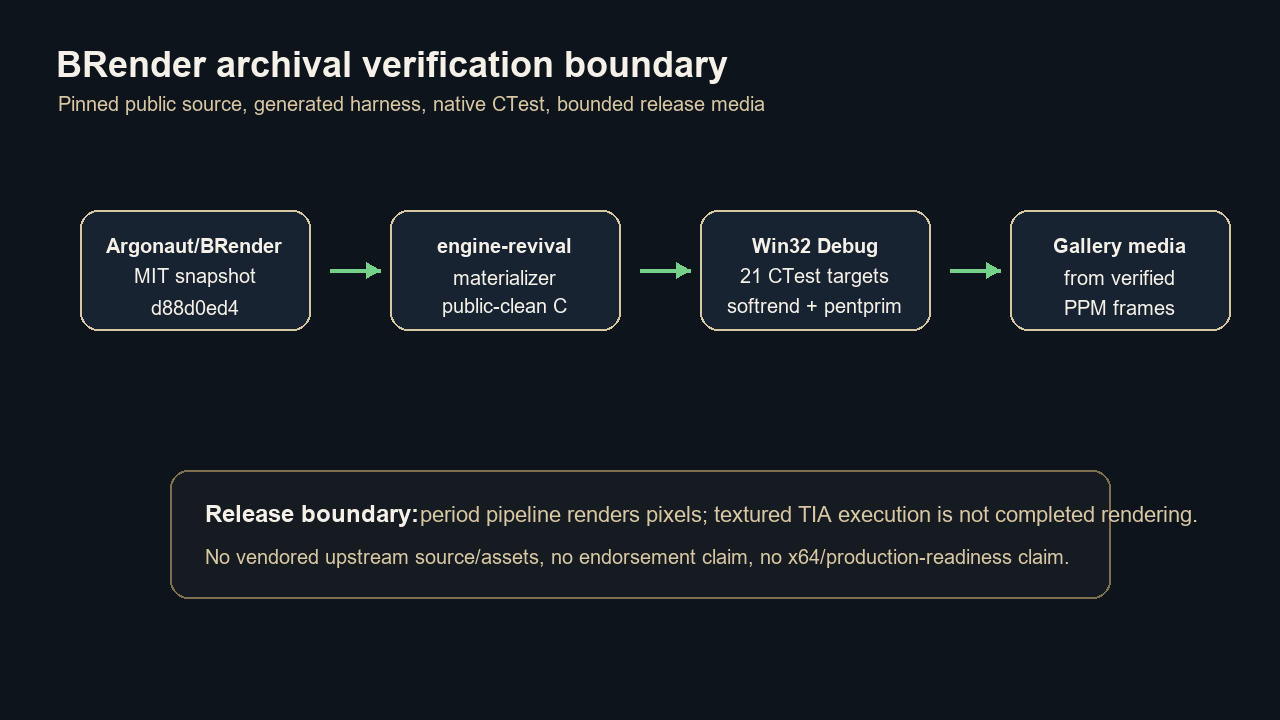
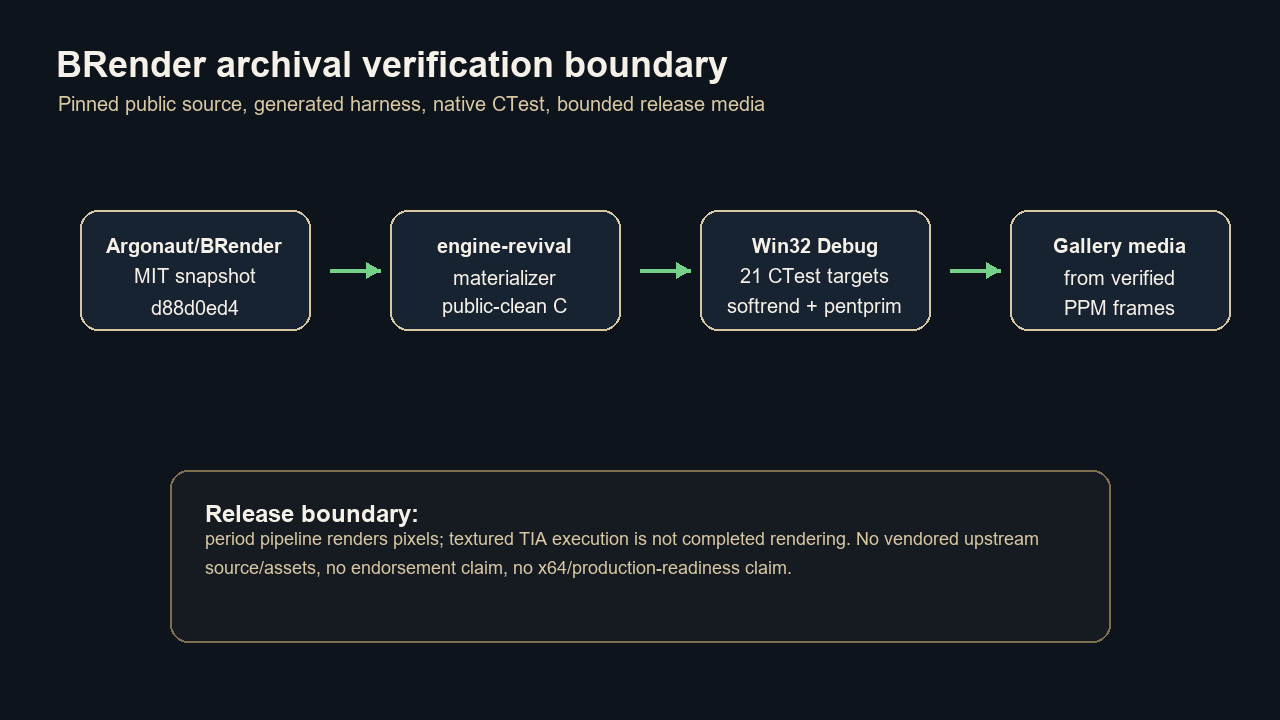
fix: wrap BRender release boundary media text

Changed region(s): [[0.1562, 0.7028, 0.9375, 0.7944], [0.8438, 0.825, 0.875, 0.8556], [0.125, 0.825, 0.1562, 0.8556]]

diff --git a/scripts/generate_brender_release_media.py b/scripts/generate_brender_release_media.py
@@ -22,6 +22,12 @@ SOURCE_SHA = "d88d0ed41122664b9781015b517db64353e16f19"
 BASE_SHA = "323c679a70417bd00414f646891d734e664966bb"
 FRAME_PREFIX = "brender-core-softrend-render.ppm.softrend-f"
 OUT_DIR = Path("gallery/release-20260827")
+PIPELINE_BOUNDARY_TEXT = (
+    "period pipeline renders pixels; textured TIA execution is not completed "
+    "rendering. No vendored upstream source/assets, no endorsement claim, no "
+    "x64/production-readiness claim."
+)
+PIPELINE_BOUNDARY_TEXT_BOX = (205, 528, 1085, 624)
 
 
 @dataclass(frozen=True)
@@ -79,6 +85,38 @@ def _centered(draw: ImageDraw.ImageDraw, box: tuple[int, int, int, int], text: s
     x = box[0] + (box[2] - box[0] - width) // 2
     y = box[1] + (box[3] - box[1] - height) // 2
     draw.text((x, y), text, font=font, fill=fill)
+
+
+def _wrap_lines(draw: ImageDraw.ImageDraw, text: str, font: ImageFont.ImageFont, max_width: int) -> list[str]:
+    lines: list[str] = []
+    current = ""
+    for word in text.split():
+        candidate = word if current == "" else f"{current} {word}"
+        bbox = draw.textbbox((0, 0), candidate, font=font)
+        if current and (bbox[2] - bbox[0]) > max_width:
+            lines.append(current)
+            current = word
+        else:
+            current = candidate
+    if current:
+        lines.append(current)
+    return lines
+
+
+def _wrapped_text(
+    draw: ImageDraw.ImageDraw,
+    box: tuple[int, int, int, int],
+    text: str,
+    size: int,
+    fill: str,
+    *,
+    line_gap: int = 8,
+) -> None:
+    font = _font(size)
+    x0, y0, x1, _ = box
+    line_height = draw.textbbox((0, 0), "Ag", font=font)[3]
+    for index, line in enumerate(_wrap_lines(draw, text, font, x1 - x0)):
+        draw.text((x0, y0 + index * (line_height + line_gap)), line, font=font, fill=fill)
 
 
 def _draw_arrow(draw: ImageDraw.ImageDraw, start: tuple[int, int], end: tuple[int, int], fill: str) -> None:
@@ -190,10 +228,9 @@ def _pipeline_diagram(out_dir: Path) -> None:
             _centered(draw, (box[0] + 12, box[1] + 18 + offset * 30, box[2] - 12, box[1] + 50 + offset * 30), line, 20, "#f6f1e8", bold=offset == 0)
     for start_x in (310, 620, 930):
         _draw_arrow(draw, (start_x + 20, 270), (start_x + 70, 270), "#75d18a")
-    draw.rounded_rectangle((170, 470, 1110, 598), radius=18, fill="#151b21", outline="#7e704e", width=2)
+    draw.rounded_rectangle((170, 470, 1110, 642), radius=18, fill="#151b21", outline="#7e704e", width=2)
     _text(draw, (205, 500), "Release boundary:", 24, "#f6f1e8", bold=True)
-    _text(draw, (420, 502), "period pipeline renders pixels; textured TIA execution is not completed rendering.", 22, "#d8c7a3")
-    _text(draw, (205, 545), "No vendored upstream source/assets, no endorsement claim, no x64/production-readiness claim.", 20, "#d8c7a3")
+    _wrapped_text(draw, PIPELINE_BOUNDARY_TEXT_BOX, PIPELINE_BOUNDARY_TEXT, 18, "#d8c7a3")
     _save_png(image, out_dir / "pipeline-diagram.png")
 
 

diff --git a/tests/test_brender_release_media.py b/tests/test_brender_release_media.py
@@ -1,0 +1,27 @@
+from __future__ import annotations
+
+from PIL import Image, ImageDraw
+
+from scripts.generate_brender_release_media import (
+    PIPELINE_BOUNDARY_TEXT,
+    PIPELINE_BOUNDARY_TEXT_BOX,
+    _font,
+    _wrap_lines,
+)
+
+
+def test_pipeline_boundary_text_wraps_inside_release_box():
+    image = Image.new("RGB", (1280, 720))
+    draw = ImageDraw.Draw(image)
+    font = _font(18)
+    x0, y0, x1, y1 = PIPELINE_BOUNDARY_TEXT_BOX
+    lines = _wrap_lines(draw, PIPELINE_BOUNDARY_TEXT, font, x1 - x0)
+
+    assert len(lines) >= 2
+    for line in lines:
+        bbox = draw.textbbox((0, 0), line, font=font)
+        assert bbox[2] - bbox[0] <= x1 - x0
+
+    line_height = draw.textbbox((0, 0), "Ag", font=font)[3]
+    total_height = line_height * len(lines) + 8 * (len(lines) - 1)
+    assert y0 + total_height <= y1
